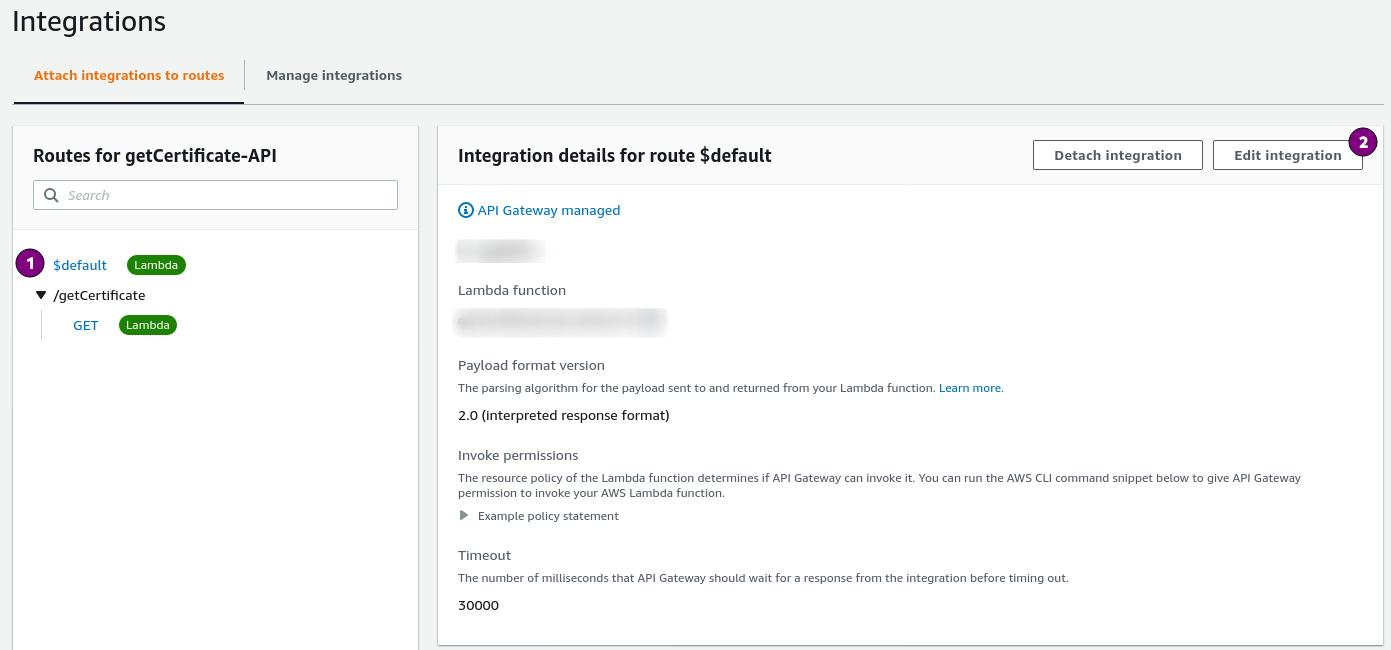
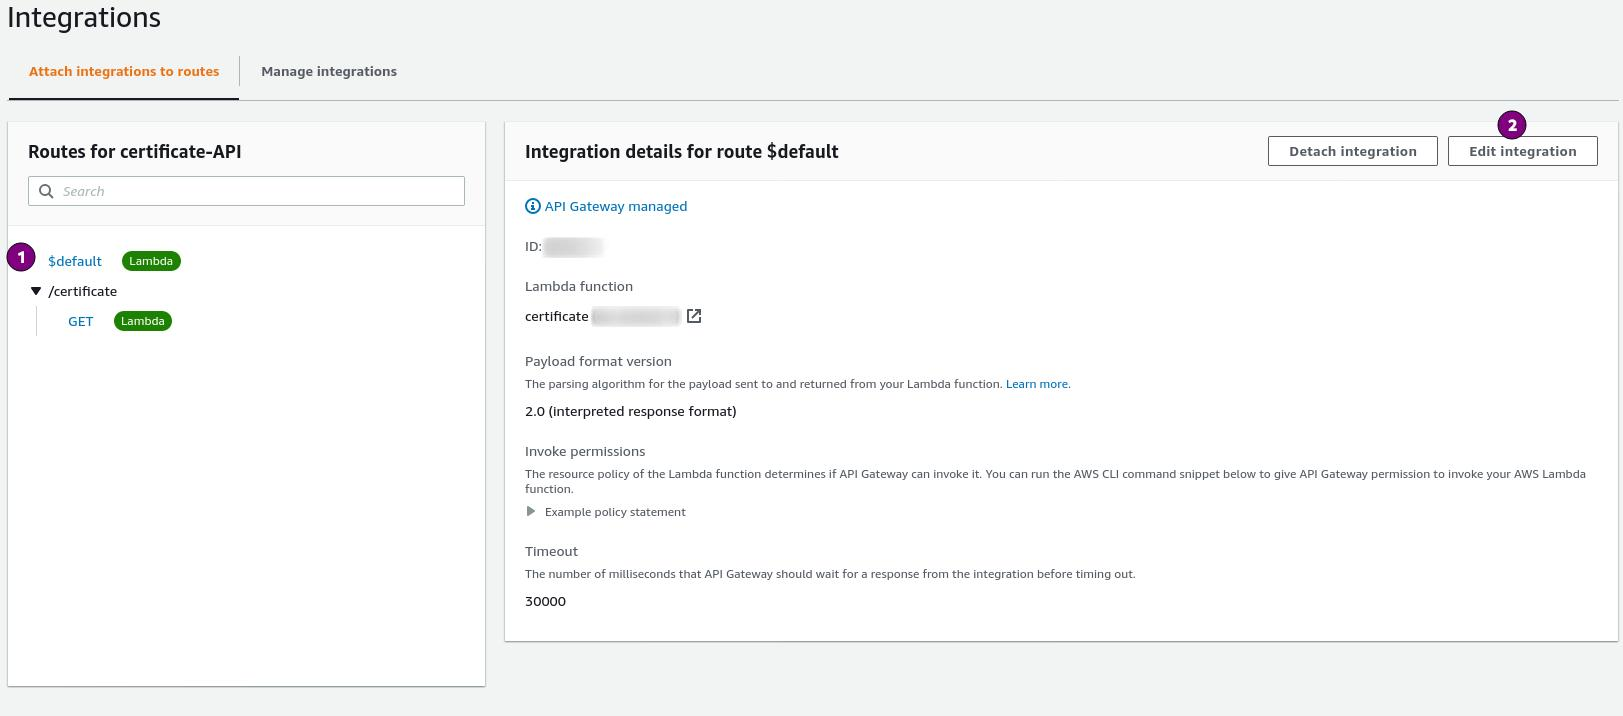
Adjust API

diff --git a/src/api/AWSAPIProvider.test.ts b/src/api/AWSAPIProvider.test.ts
@@ -21,7 +21,7 @@ test("Unsupported endpoint", () => {
 test("Unexpected CertificateProvider error", () => {
   return apiProvider
     .getCertificate({
-      rawPath: "-/getcertificate/",
+      rawPath: "-/certificate/",
     })
     .catch((data: Error) => expect(data).toBeInstanceOf(Error));
 });
@@ -29,7 +29,7 @@ test("Unexpected CertificateProvider error", () => {
 test("Sunny case", () => {
   return apiProvider
     .getCertificate({
-      rawPath: "example.com/getcertificate/",
+      rawPath: "example.com/certificate/",
     })
     .then((data: { body: unknown }) =>
       expect(data.body).toBe('{"error":null,"certificate":"dadssadsa"}')

diff --git a/src/api/AWSAPIProvider.ts b/src/api/AWSAPIProvider.ts
@@ -37,10 +37,10 @@ export class AWSAPIProvider implements APIProvider {
   // eslint-disable-next-line @typescript-eslint/explicit-module-boundary-types, @typescript-eslint/no-explicit-any
   public async getCertificate(event: any): Promise<unknown | Error> {
     const path = event.rawPath.toLowerCase();
-    if (!path.includes("/getcertificate/")) {
+    if (!path.includes("/certificate/")) {
       throw Error();
     }
-    const url = path.replace("/getcertificate/", "");
+    const url = path.replace("/certificate/", "");
     let response;
     try {
       const result = await this.certificateProvider.fetchCertificateByUrl(url);

diff --git a/src/api/ExpressAPIProvider.ts b/src/api/ExpressAPIProvider.ts
@@ -44,7 +44,7 @@ export class ExpressAPIProvider implements APIProvider {
    * Configures the endpoints of the express server.
    */
   private configureAPI(): void {
-    this.app.get("/getCertificate/:url", this.getCertificate);
+    this.app.get("/certificate/:url", this.getCertificate);
   }
 
   /**

diff --git a/README.md b/README.md
@@ -23,7 +23,8 @@ In order to deploy the express variant of the server these steps have to be foll
 3. Unzip the folder and open a terminal within the unzipped folder.
 4. Run `npm i`, this will install express.
 5. Run `node index.js` this will start the server on port 3000
-6. Test the server by opening a Browser and going to `http://localhost:3000/getCertificate/www.google.com`
+    - To define your own port run `PORT=<your-port> node index.js`.
+6. Test the server by opening a Browser and going to `http://localhost:3000/certificate/www.google.com`
     - The output should be a json including the certificate from www.google.com
 7. Go to the settings page of your Chrome-Chexxo-Extension and fill in the setting `server` with the value `localhost:3000`.
 8. You're all set to go. Start using Chexxo.
@@ -51,14 +52,14 @@ In order to deploy the server on AWS-Lambda these steps have to be followed:
 ![Open Gateway](img/8-open-gateway.jpg)
 11. On the left hand side of the gateway-configuration select `Routes`.
 ![Select Routes](img/9-select-routes.jpg)
-12. Click on `ANY` below the `/getCertificate` endpoint. Afterwards click on `Edit`.
+12. Click on `ANY` below the `/certificate` endpoint. Afterwards click on `Edit`.
 ![Select Any](img/10-select-any.jpg)
 13. Change `ANY` to `GET` and click `Save`.
 14. On the left hand side of the gateway-configuration select `Integrations`.
 ![Select Integrations](img/11-select-integrations.jpg)
 15. Select `$default` and click on `Edit Integration`.
 ![Select default](img/12-select-default.jpg)
-16. Select your Lambda function and click on `Save`. This has to be done even if the lambda-function is already selected.
+16. Make sure your function name is inside the `Lambda function` field and on `Save`. It is important, that you click on `Save` even if the function name was already correct.
 14. Congratulations your server is setup.
-15. Go to the settings page of your Chrome-Chexxo-Extension and fill in the setting `server` with the value of the API-Endpoint.
+15. Go to the settings page of your Chrome-Chexxo-Extension and fill in the setting `server` with the value of the API-Endpoint. Make sure to not include any subdirectories like `/default` into the settings value of the extension.
 ![Set endpoint](img/13-set-endpoint.jpg)
